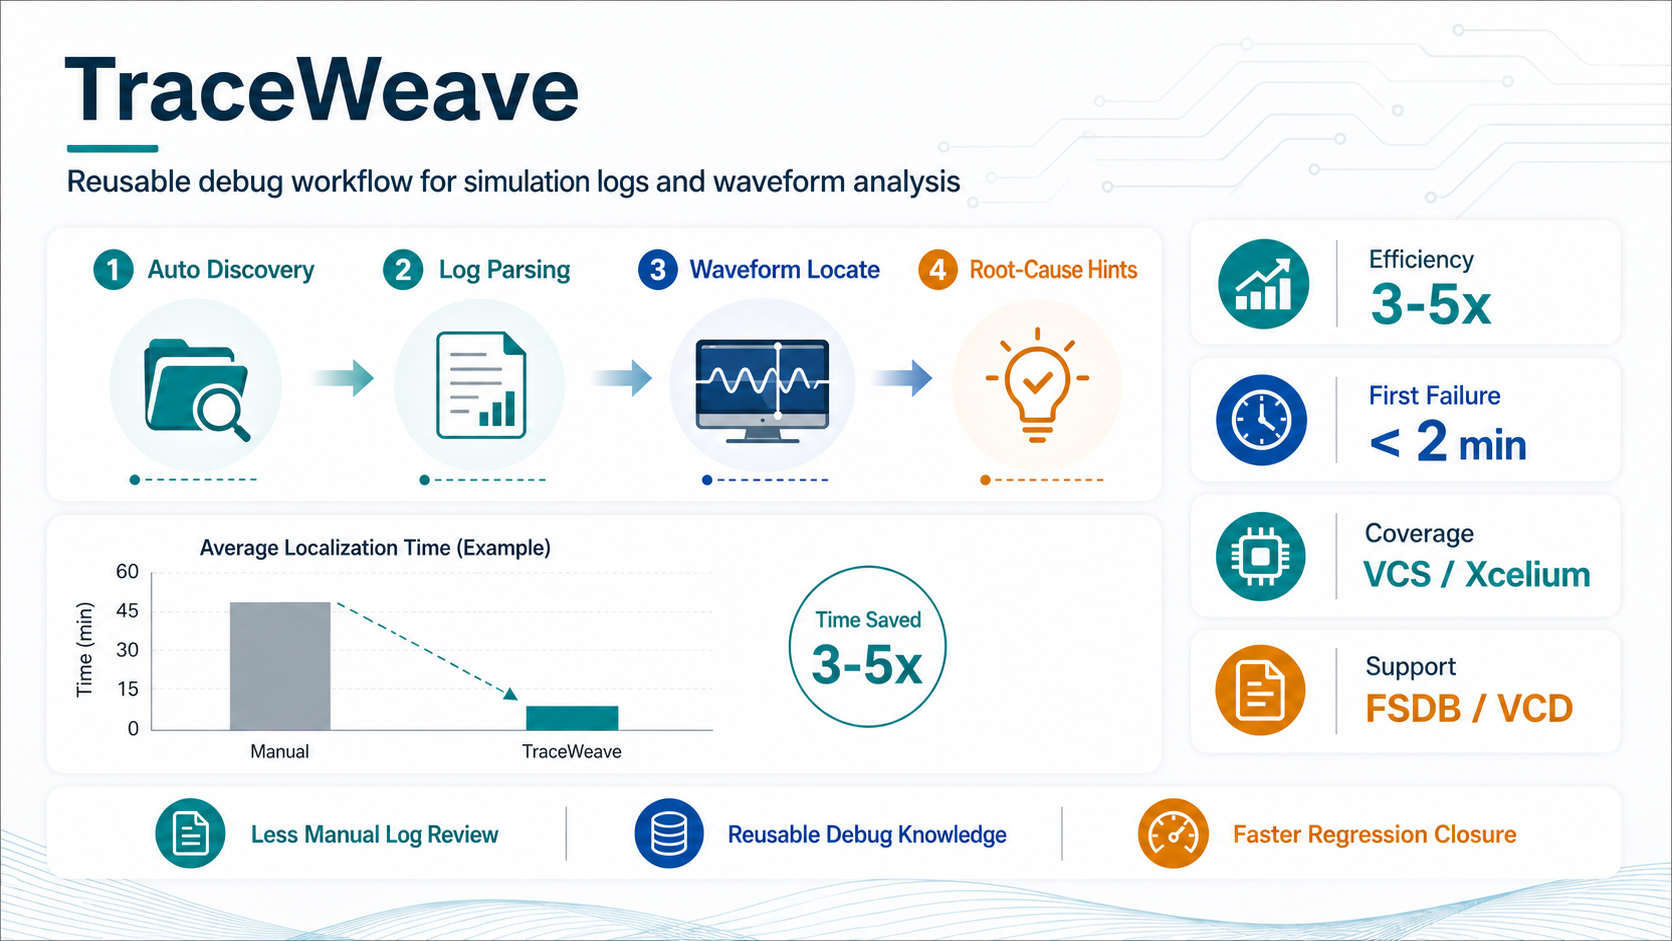
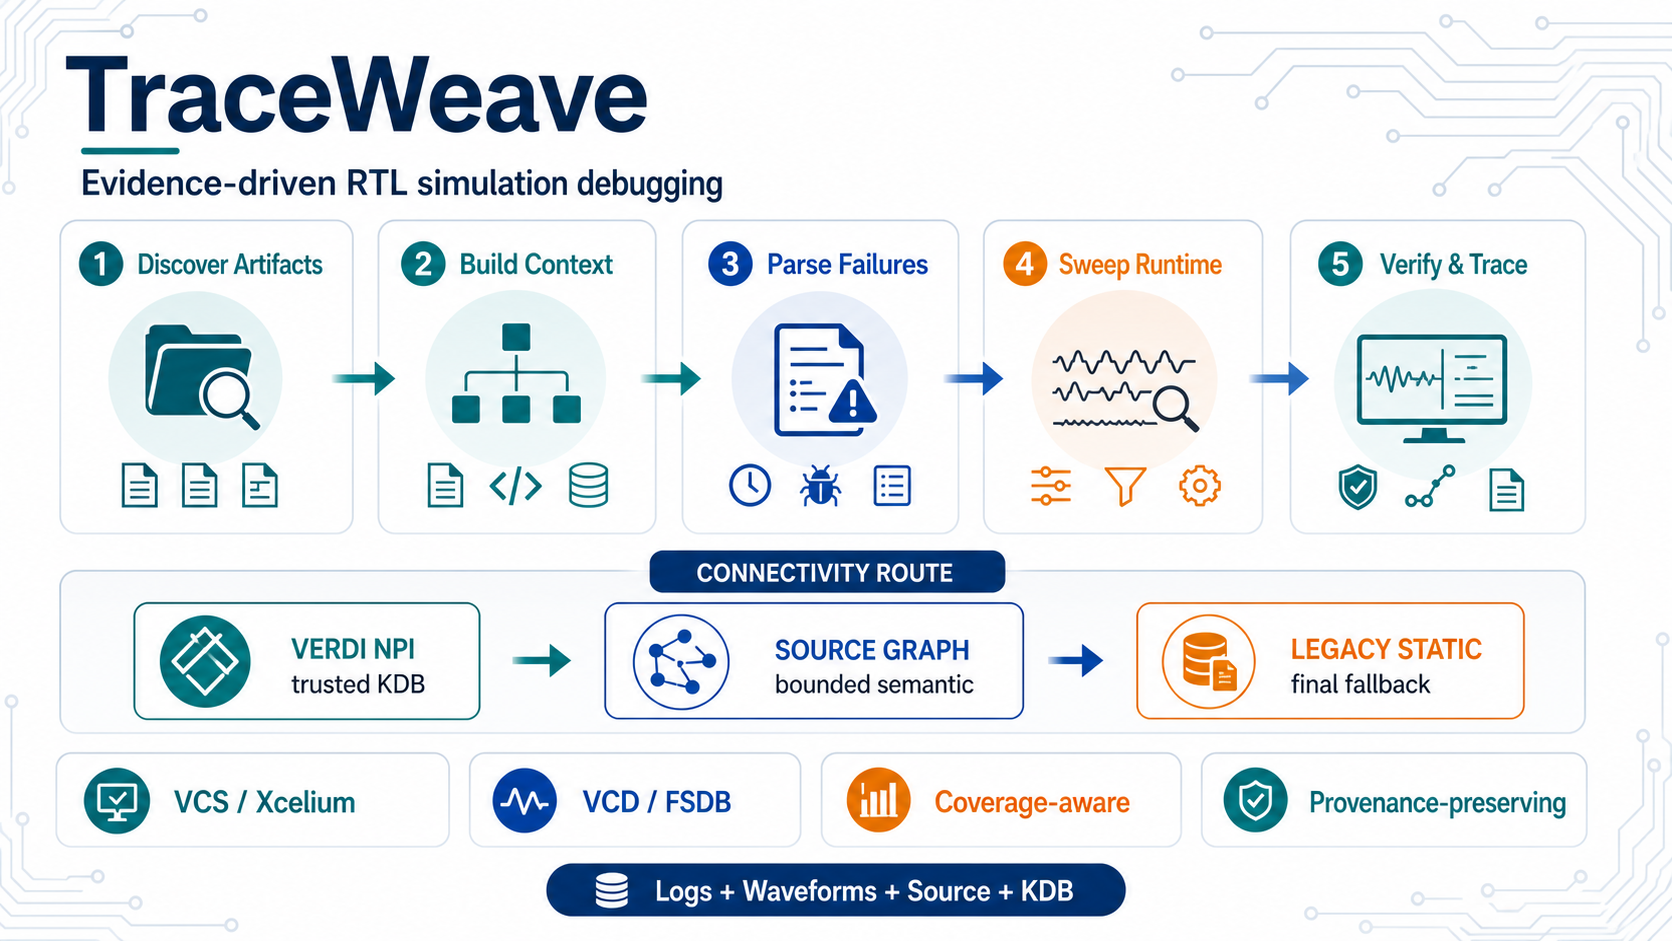
docs(readme): refresh product positioning
Align the bilingual introduction and one-page diagrams with the current workflow, Source Graph fallback, and coverage-aware evidence model. Remove generic speed and first-failure claims.

diff --git a/README.md b/README.md
@@ -9,7 +9,7 @@
 </p>
 
 <p align="center">
-  <strong>MCP server for simulation-failure debug through log parsing and waveform analysis</strong>
+  <strong>Workflow-oriented MCP server for evidence-driven RTL simulation debugging</strong>
 </p>
 
 <p align="center">
@@ -19,52 +19,54 @@
   <a href="https://github.com/gokeshenzhen/TraceWeave/stargazers"><img src="https://img.shields.io/github/stars/gokeshenzhen/TraceWeave?style=for-the-badge" alt="Stars"></a>
 </p>
 
-<h2 align="center">Waveform + log root-cause MCP — stop debugging by hand, use TraceWeave.</h2>
+<h2 align="center">Connect compile evidence, logs, waveforms, source, and elaborated connectivity in one verifiable debug workflow.</h2>
 
-What sets TraceWeave apart: when a Verdi license is available it engages KDB/NPI for accurate cross-hierarchy driver / load / connectivity analysis; without a license it still locates issues via the built-in Static backend, log parsing, and VCD/FSDB waveform reads. It supports driver backtracking, load/fanout lookup, value-at-time queries, cycle-aligned sampling, arbitrary signal-window queries, lightweight X/Z tracing, structural risk scanning, and failure-group diffing — and emits structured next-step debug recommendations for MCP clients.
+TraceWeave turns local VCS/Xcelium simulation artifacts into a guided investigation. It discovers the active compile, simulation, and VCD/FSDB waveform inputs; builds the compiled hierarchy and an independent structural-risk view; normalizes failures; runs a whole-design runtime handshake sweep; and recommends the next evidence-gathering call.
+
+For driver, load, structural-path, and X/Z-source questions, TraceWeave uses a provenance-preserving backend ladder: trusted Verdi NPI when a usable KDB is available, a bounded on-demand Slang Source Graph when NPI is unavailable or inconclusive, and Legacy Static as the final fallback. Results expose backend provenance, coverage, truncation, and fallback status rather than turning partial evidence into certainty.
 
 <p align="center">
   <img src="assets/onepage-en.png" alt="TraceWeave workflow overview" width="900">
 </p>
 
-<p align="center"><sub>Workflow illustration; timing and speedup depend on project scale and waveform availability.</sub></p>
+<p align="center"><sub>Default workflow and connectivity-routing overview; every conclusion remains bounded by reported coverage.</sub></p>
 
 TraceWeave is a workflow-oriented debug server rather than a loose collection of parsers. It combines:
 
-- An MCP server with session state, workflow gates, and recommended tool ordering
-- Path discovery for compile logs, simulation logs, and waveform artifacts
-- Compile-log-driven hierarchy building and source-aware driver correlation
-- VCD and FSDB waveform backends with signal search
-- Failure-centric recommendations, structural risk scanning, and X/Z propagation tracing
-- Structured output schemas designed for MCP clients
+- A guided MCP workflow from artifact discovery through parallel hierarchy/structural analysis, failure parsing, runtime protocol scanning, and focused verification
+- Compile-evidence hierarchy construction, handle-based browsing, and source-aware structural analysis
+- VCD/FSDB point, transition, window, cycle, divergence, and period queries
+- Whole-design handshake scanning, targeted protocol checks, temporal predicates, and transaction reconstruction
+- Driver/load/path/X tracing through `trusted NPI -> bounded Source Graph -> Legacy Static`
+- Structured next actions plus coverage, provenance, truncation, and resource receipts designed for MCP clients
 
 [Architecture](docs/architecture.md) · [Installation](#installation) · [Client Setup](#client-setup) · [Standard MCP Workflow](#standard-mcp-workflow) · [Tool Quick Reference](#tool-quick-reference) · [Testing](#testing) · [WeChat](#wechat)
 
 ## When TraceWeave helps most
 
-TraceWeave is not a universal speedup, and it is honest about that. In blind
-benchmarking against a capable LLM that only reads source and text logs:
+TraceWeave adds the most value when debugging requires correlating evidence
+across artifacts rather than reading one obvious RTL line. It is especially
+useful for:
 
-- **When the RTL is readable and the bug is a source-visible logic error**, an
-  LLM reading the source is already fast. Here TraceWeave mainly *confirms* the
-  hypothesis from the waveform — and `scan_structural_risks` can statically pin
-  the offending line. Useful, but not where the moat is.
-- **TraceWeave becomes the decisive — sometimes the only — way to localize when
-  the answer is not in readable source:**
-  - the design is **encrypted/protected IP** or too large to eyeball, so the bug
-    cannot be read or grep'd; or
-  - the failure is a **timing / handshake / X / connectivity bug with no static
-    signature** and an **opaque symptom** (timeout, stall, divergence — no value
-    pattern in the log).
+- **Opaque runtime symptoms** such as timeouts, hangs, scoreboard mismatches,
+  X/Z propagation, first divergence, or a broken cadence. Waveform queries and
+  protocol/transaction analysis locate the first bad time, interface, or beat.
+- **Cross-hierarchy cause-and-effect questions** where a suspicious signal must
+  be followed through ports, interfaces, assignments, drivers, and consumers.
+- **Large or interface-rich designs** where whole-design handshake sweeps and
+  bounded hierarchy/Source Graph scopes reduce an otherwise open-ended search.
+- **Falsifiable hypothesis checks** that need a concrete witness or
+  counterexample from `verify_window`, divergence, period, handshake, or
+  reconstructed-transaction evidence.
+- **License-constrained environments** where Source Graph provides semantic
+  connectivity without NPI, while a usable KDB can still enable deeper local or
+  LSF-hosted Verdi NPI analysis.
 
-  In those cases the clock-sampled waveform facts — cycle-aligned sampling,
-  `inspect_handshake`, `suggest_protocol_bundles`, `sweep_handshakes`,
-  `reconstruct_transactions`, `verify_window`, `diff_first_divergence`,
-  `period`, `trace_x_source`, structural scanning — localize the failing stage
-  and time directly, where
-  reading source or grepping cannot reach. Reading the source is a strong
-  baseline; TraceWeave earns its keep on **opaque symptoms and unreadable or
-  large designs.**
+For a small readable block with an obvious source-local logic error, direct
+source and log inspection may be faster. TraceWeave also cannot reveal behavior
+absent from every available source, log, waveform, and KDB artifact; with
+protected IP it can follow only the evidence exposed at visible boundaries, in
+the waveform, or in the elaborated database.
 
 ## Architecture
 

diff --git a/README.zh.md b/README.zh.md
@@ -9,7 +9,7 @@
 </p>
 
 <p align="center">
-  <strong>面向仿真失败调试的 MCP 服务器,基于日志解析与波形分析</strong>
+  <strong>面向证据链与工作流的 RTL 仿真调试 MCP 服务器</strong>
 </p>
 
 <p align="center">
@@ -19,45 +19,48 @@
   <a href="https://github.com/gokeshenzhen/TraceWeave/stargazers"><img src="https://img.shields.io/github/stars/gokeshenzhen/TraceWeave?style=for-the-badge" alt="Stars"></a>
 </p>
 
-<h2 align="center">波形日志根因分析 MCP,不想再调试,就用 TraceWeave。</h2>
+<h2 align="center">把编译证据、仿真日志、波形、源码与展开后的连线关系串成一条可验证的调试工作流。</h2>
 
-TraceWeave 的特色:有 Verdi license 时启用 KDB/NPI 获得更精确的跨层级 driver/load/connectivity 分析;没有 license 时也可用内置 Static 后端、日志解析、VCD/FSDB 波形读取继续定位问题;支持 driver 回溯、load/fanout 查找、指定时刻取值、指定周期数采样、任意信号窗口查询、轻量化 X/Z trace、结构风险扫描、失败分组对比,并给 MCP 客户端输出结构化的下一步调试建议。
+TraceWeave 将本地 VCS/Xcelium 仿真产物组织成一条有引导的调查路径：自动发现本次运行实际使用的编译日志、仿真日志和 VCD/FSDB 波形；构建已编译设计的层次结构和独立的结构风险视图；归一化失败事件；执行全设计运行期握手扫描；并推荐下一步可直接调用的证据采集动作。
+
+面对 driver、load、结构路径和 X/Z 源头问题，TraceWeave 按保留证据来源的后端阶梯执行：有可用 KDB 时优先使用可信 Verdi NPI；NPI 不可用或结论不充分时使用按需、有界的 Slang Source Graph；最后才回退 Legacy Static。结果显式报告 backend provenance、coverage、truncation 和 fallback 状态，不把局部证据包装成确定结论。
 
 <p align="center">
   <img src="assets/onepage.png" alt="TraceWeave 工作流概览" width="900">
 </p>
 
-<p align="center"><sub>工作流示意图;实际时序与加速比取决于工程规模与波形可用性。</sub></p>
+<p align="center"><sub>默认工作流与 connectivity 路由示意图；所有结论都受输出中 coverage 范围的约束。</sub></p>
 
-TraceWeave 是一个面向工作流的调试服务器,而不是一组零散的解析器。它包含:
+TraceWeave 是一个面向工作流的调试服务器，而不是一组零散的解析器。它包含：
 
-- 带会话状态、工作流约束和推荐调用顺序的 MCP 服务器
-- 编译日志、仿真日志、波形产物的路径自动发现
-- 基于编译日志的层次结构构建,以及源码感知的驱动关联
-- VCD 与 FSDB 波形后端,支持信号搜索
-- 以失败为中心的下一步建议、结构风险扫描、X/Z 传播追踪
-- 为 MCP 客户端设计的结构化输出 schema
+- 从产物发现、并行层次/结构分析、失败解析、运行期协议扫描到聚焦验证的 MCP 引导工作流
+- 基于编译证据的层次构建、handle 式按需浏览和源码感知的结构分析
+- VCD/FSDB 指定时刻、跳变、时间窗、周期、首次分叉和节拍查询
+- 全设计握手扫描、定向协议检查、时序谓词验证和事务重建
+- 通过 `trusted NPI -> bounded Source Graph -> Legacy Static` 完成 driver/load/path/X 追踪
+- 面向 MCP 客户端的结构化下一步动作，以及 coverage、provenance、truncation 和资源回执
 
 [架构](docs/architecture.md) · [安装](#安装) · [客户端配置](#客户端配置) · [标准 MCP 工作流](#标准-mcp-工作流) · [工具速查](#工具速查) · [测试](#测试) · [微信](#微信)
 
 ## TraceWeave 在什么场景最有用
 
-TraceWeave 并非万能加速器,这一点我们如实说明。在与"只读源码和文本日志的强 LLM"
-做盲测对比时:
+TraceWeave 的最大价值，是把分散在多个仿真产物中的证据关联起来，而不是只读取一行
+显而易见的 RTL。它尤其适合：
 
-- **当 RTL 可读、且 bug 是源码层面可见的逻辑错误时**,LLM 直接读源码就已经很快。
-  此时 TraceWeave 主要是用波形*佐证*假设,`scan_structural_risks` 还能静态点到出错
-  行——有用,但这不是它的护城河。
-- **当答案不在可读源码里时,TraceWeave 才成为决定性、甚至唯一的定位手段:**
-  - 设计是**加密/保护 IP**,或规模大到无法肉眼通读,bug 既读不到也 grep 不出;或
-  - 故障是**时序 / 握手 / X / 连线类、没有静态特征**的 bug,且**症状不透明**
-    (超时、卡死、分叉——日志里没有任何数值规律)。
+- **不透明的运行期症状**，例如超时、卡死、scoreboard mismatch、X/Z 传播、首次分叉
+  或节拍异常。波形查询和协议/事务分析可以定位第一个异常时刻、接口或 beat。
+- **跨层级因果追踪**，需要沿 port、interface、assignment、driver 和 consumer 追查
+  一个可疑信号的来源与影响范围。
+- **大型或多接口设计**，通过全设计握手扫描以及有界的 hierarchy/Source Graph scope，
+  把原本开放式的搜索收敛到可检查的范围。
+- **可证伪的假设验证**，需要从 `verify_window`、首次分叉、period、handshake 或事务重建
+  中取得具体 witness 或 counterexample。
+- **受 license 或执行环境限制的场景**，无 NPI 时仍可用 Source Graph 获得语义连线证据；
+  有可用 KDB 时则可进一步使用本地或 LSF 执行的 Verdi NPI。
 
-  这些情况下,时钟采样的波形事实——周期对齐采样、`inspect_handshake`、
-  `suggest_protocol_bundles`、`sweep_handshakes`、`reconstruct_transactions`、
-  `verify_window`、`diff_first_divergence`、`period`、`trace_x_source`、结构扫描——能直接定位到出问题
-  的那一级和那一刻,而读源码或 grep 根本够不着。读源码是个很强的基线;TraceWeave
-  的价值在于 **不透明症状,以及不可读或超大的设计。**
+对于小型可读 block 中明显的源码局部逻辑错误，直接阅读源码和日志可能更快。
+TraceWeave 也无法揭示所有可用源码、日志、波形和 KDB 都没有暴露的行为；面对
+protected IP，它只能沿可见边界、波形或 elaborated database 已暴露的证据继续追踪。
 
 ## 架构
 
